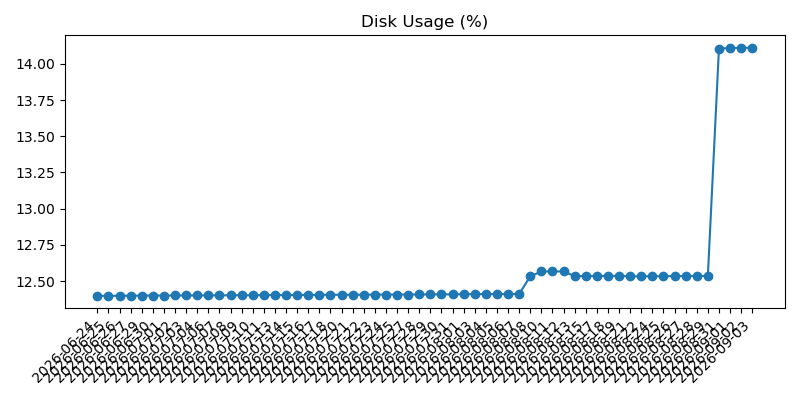
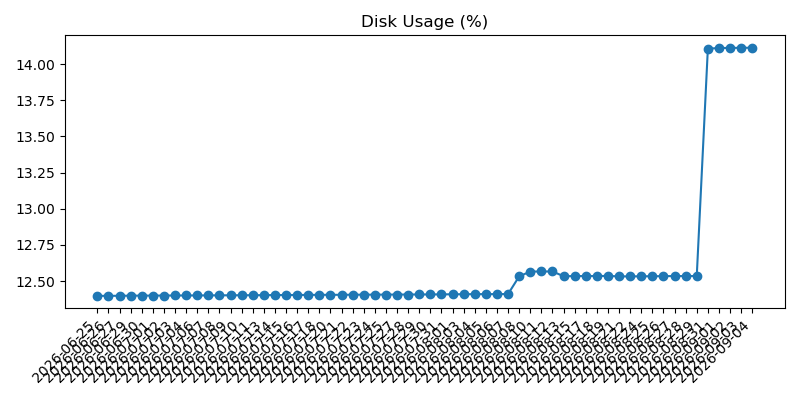
Update Pi daily status

diff --git a/2026-09.md b/2026-09.md
@@ -102,3 +102,37 @@
 - Overall: Good
 - Warning: None
 
+## 2026-09-04 12:40:47
+
+### Machine
+- Uptime: up 2 days, 21 hours, 49 minutes
+- CPU load (1m, 5m, 15m): 0.00, 0.00, 0.00
+- RAM used: 260 MB / 920 MB (28.3%)
+- Disk used (/): 4.1 GB / 28.8 GB (14.1%)
+- Free disk space (/): 23.5 GB
+- CPU temp: 44.0°C
+- Voltage / throttling: OK
+
+### Reachability
+- Internet check (1.1.1.1): Reachable (4.0 ms)
+
+### Weather
+- Madrid:
+  - Condition: Poco nuboso
+  - Max temp: 38°C
+  - Min temp: 22°C
+  - Feels like: 30°C
+  - Chance of rain: 0%
+  - Warnings: None reported
+- Barcelona:
+  - Condition: Poco nuboso
+  - Max temp: 33°C
+  - Min temp: 25°C
+  - Feels like: 29°C
+  - Chance of rain: 0%
+  - Warnings: None reported
+
+### Health
+- Overall: Good
+- Warning: None
+
